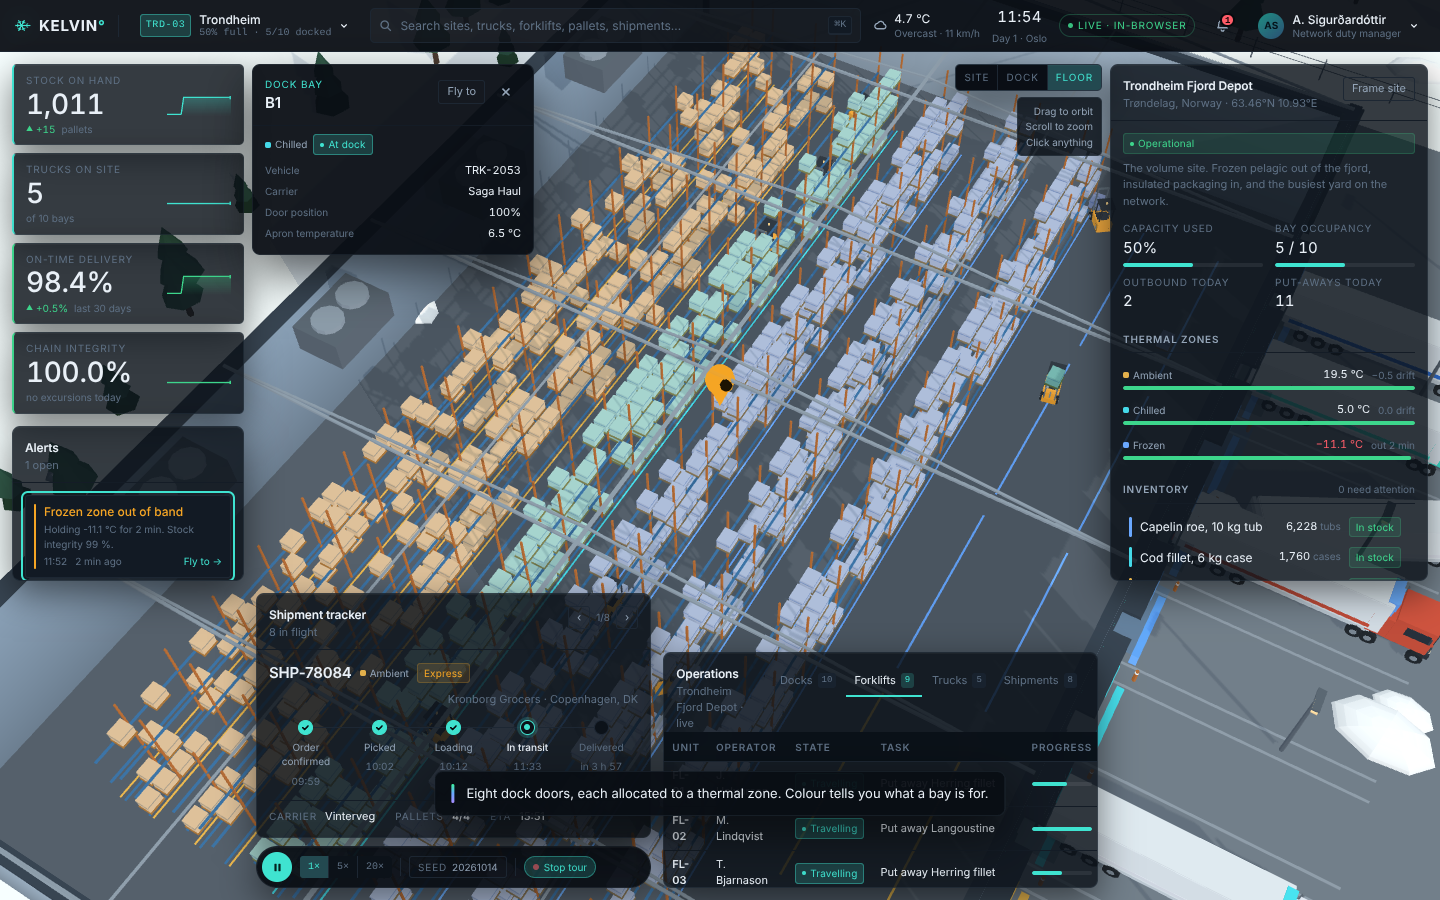
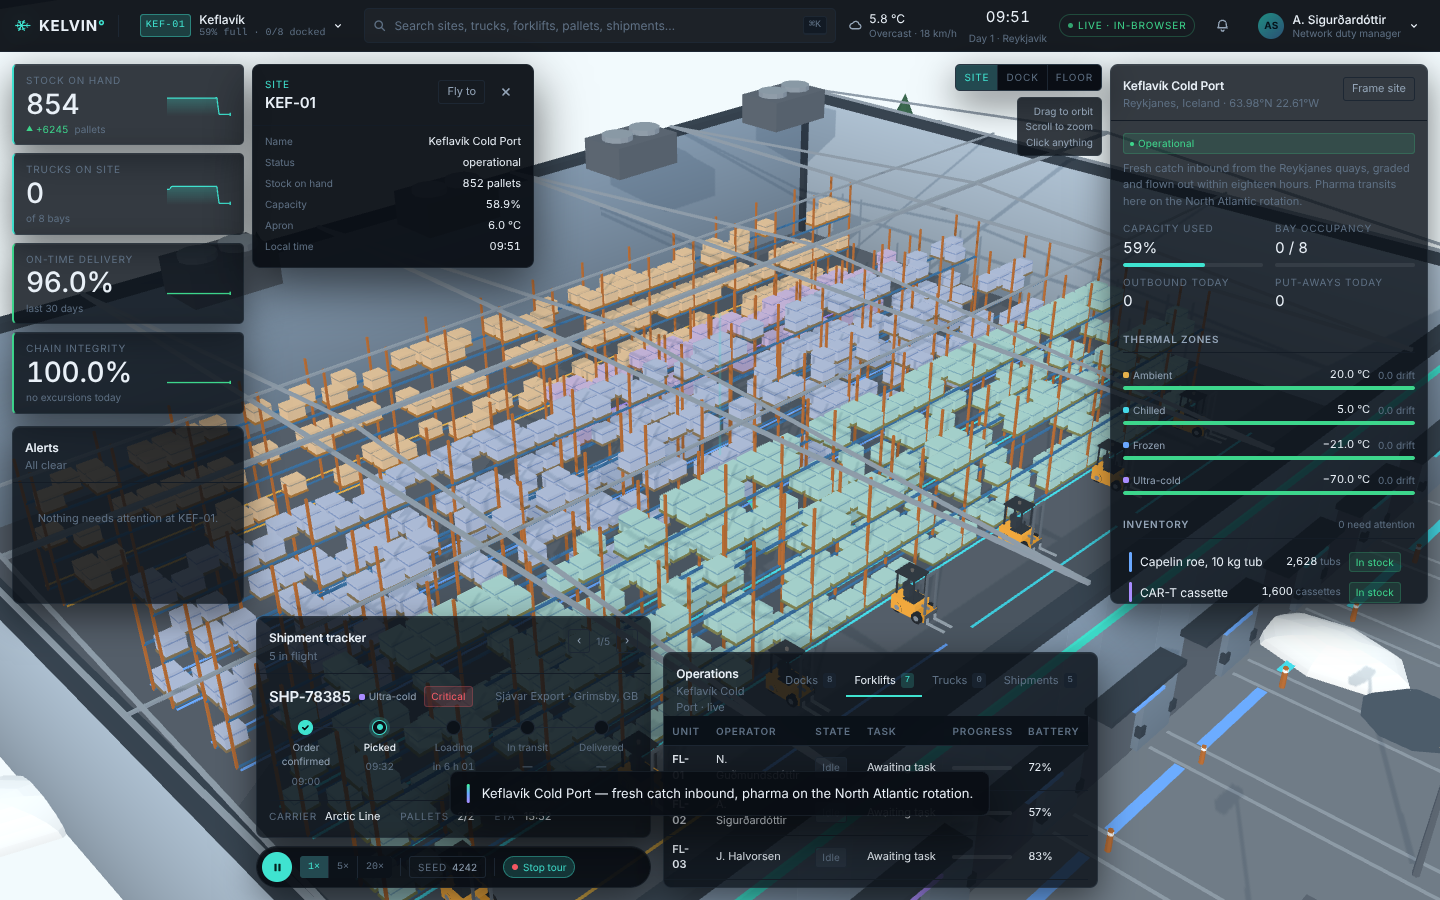
Fix the inspector stacking context that swallowed top-bar clicks
Driving the built app end to end, rather than running the test suite,
turned up a dead control: search for a site, then click the site
switcher, and nothing happens.

`.dashboard` carries a z-index and so creates a stacking context. The
switcher's popover sits at z-index 40, but that 40 is scoped inside the
dashboard, while the inspector was rendered as the dashboard's sibling
at z-index 8 — and so painted over the whole subtree and ate its
clicks. Searching for a site opens the inspector, which is why the very
next click on the switcher did nothing.

The inspector is now a child of the dashboard, so one stacking context
governs all the chrome, and its `top` no longer adds the safe-area
inset its parent's padding box already accounts for.

- e2e: assert the dropdown is genuinely on top via elementFromPoint,
  with the inspector open, rather than merely present in the DOM
- drive.mjs: rewritten as the thirteen-step acceptance run, reporting
  what the app says back and failing on any console error
- REPORT.md: record the defect and that two bugs now hid behind a green
  suite, because the tests were politer to the app than a person is
- pages.yml: optional manual GitHub Pages deploy, so the dashboard can
  live at a URL; manual because running it makes the app public

Claude-Session: https://claude.ai/code/session_01NEH2FUf4PZoDgGiTgoQ3VA

diff --git a/tests/e2e/app.spec.ts b/tests/e2e/app.spec.ts
@@ -153,6 +153,40 @@ test('the site switcher changes site', async ({ page }) => {
   await expect(page.locator('.panel-site')).toContainText('Gardermoen')
 })
 
+test('the top bar stays clickable with the inspector open', async ({ page }) => {
+  await boot(page)
+
+  // Open the inspector first. It is positioned over the left of the viewport and
+  // overlaps the site switcher's dropdown; if the two end up in different
+  // stacking contexts the inspector swallows the dropdown's clicks, which is
+  // exactly what happened when the inspector was a sibling of the dashboard
+  // rather than a child of it.
+  await page.getByRole('tab', { name: /Forklifts/ }).click()
+  await page.locator('.table tbody tr').first().click()
+  await expect(page.locator('.inspector')).toBeVisible()
+
+  await page.locator('.site-trigger').click()
+  await expect(page.locator('.popover-site')).toBeVisible()
+
+  const option = page.getByRole('menuitemradio', { name: /Gardermoen/ })
+  // Assert the dropdown is genuinely on top, not merely present in the DOM.
+  const box = await option.boundingBox()
+  expect(box).not.toBeNull()
+  const onTop = await page.evaluate(
+    ({ x, y }) => {
+      const el = document.elementFromPoint(x, y)
+      // Guard the null case explicitly: `el?.closest(...)` is undefined when
+      // there is no element there at all, and `undefined !== null` is true.
+      return el !== null && el.closest('.popover-site') !== null
+    },
+    { x: (box?.x ?? 0) + (box?.width ?? 0) / 2, y: (box?.y ?? 0) + (box?.height ?? 0) / 2 },
+  )
+  expect(onTop, 'something is painting over the site switcher dropdown').toBe(true)
+
+  await option.click()
+  await expect(page.locator('.site-code')).toContainText('OSL-02')
+})
+
 test('bracket keys cycle sites', async ({ page }) => {
   await boot(page)
   const start = await page.locator('.site-code').textContent()

diff --git a/src/styles/dashboard.css b/src/styles/dashboard.css
@@ -913,10 +913,16 @@
 
 /* ── Inspector ────────────────────────────────────────────────────────────── */
 
+/*
+ * A child of .dashboard, whose padding box already accounts for the top
+ * safe-area inset, so `top` must not add it a second time. The z-index sits
+ * below the top bar's popovers (40) on purpose: a dropdown you just opened
+ * belongs above a panel that was already sitting there.
+ */
 .inspector {
   position: absolute;
   left: calc(var(--left-w) + var(--s6));
-  top: calc(var(--topbar-h) + var(--s4) + env(safe-area-inset-top, 0px));
+  top: calc(var(--topbar-h) + var(--s4));
   width: 282px;
   z-index: 8;
   background: var(--glass-strong);

diff --git a/src/ui/App.tsx b/src/ui/App.tsx
@@ -94,9 +94,15 @@ export function App(): React.ReactElement {
         <div className="floating-camera">
           <CameraControls />
         </div>
+
+        {/* Inside the dashboard, not beside it. `.dashboard` carries a z-index
+            and therefore creates a stacking context, so an inspector rendered as
+            its sibling painted over the top bar's dropdowns whatever z-index
+            they carried — and swallowed their clicks. */}
+        <Inspector />
       </div>
 
-      <Inspector />
+      {/* Deliberately outside: these are meant to cover everything. */}
       {paletteOpen && <CommandPalette />}
       <ShortcutSheet />
       <Toasts />

diff --git a/REPORT.md b/REPORT.md
@@ -178,7 +178,7 @@ valid implementation. The UI degrades by leaving a control inert, not by breakin
 
 ## 5. Bugs worth recording
 
-Seven real defects. I'm listing them because how each was caught is the useful
+Eight real defects. I'm listing them because how each was caught is the useful
 part — none came from reading the code.
 
 **Shared module state broke determinism — twice.** Task-slot reservations and
@@ -236,6 +236,17 @@ test passed, because the e2e test waits for a result row before pressing Enter.
 I found it by scripting the app and driving it the way a person does: open,
 type, Enter, with no waiting in between. The fix was to stop resetting state
 and let the component unmount when closed, so a fresh mount is the reset.
+
+**The inspector painted over the top bar's dropdowns and ate their clicks.**
+`.dashboard` carries a `z-index`, which makes it a stacking context, so the
+site switcher's popover at `z-index: 40` was scoped *inside* it — while the
+inspector sat beside it at `z-index: 8` and beat the whole subtree. Searching
+for a site opens the inspector, so the very next click on the site switcher
+silently did nothing. Found by driving the app rather than testing it: a
+`document.elementFromPoint` on the menu option came back `.inspector-kind`.
+The inspector is now a child of the dashboard, so one stacking context governs
+all the chrome, and an e2e test asserts the dropdown is genuinely on top rather
+than merely present in the DOM.
 
 **The frame-delta clamp makes the engine run slow at very low frame rates.**
 Each frame advances the simulation by at most 250 ms of wall time, so a
@@ -358,12 +369,15 @@ physics, but a domain expert would find them naive.
 simulate a whole day. I trimmed the worst of it, but a proper build would
 separate fast property tests from a slow nightly soak.
 
-*My tests were politer to the app than a person is.* The palette bug above sat
-behind a green suite because the test waited for a result to render before
-pressing Enter — a reasonable thing for a test to do and not at all what a user
-does. Driving the app end to end as a last step found it in one run. I should
-have done that much earlier and more often, rather than treating a passing suite
-as the same thing as a working app.
+*My tests were politer to the app than a person is.* Two of the bugs above sat
+behind a green suite. The palette one survived because the test waited for a
+result to render before pressing Enter — reasonable for a test, not what a user
+does. The stacking one survived because the site-switcher test opened the
+switcher on a clean screen, where nothing was overlapping it; a person searches
+for a site first, which opens the inspector, and then the dropdown is dead.
+Both fell out of one scripted run that just used the app in order. I should have
+been doing that from the first hour, not the last, and I should stop treating a
+passing suite as the same thing as a working app.
 
 *I did not do a formal accessibility audit.* Keyboard access, focus management,
 reduced motion and live regions are all implemented and spot-checked, but I ran

diff --git a/scripts/README.md b/scripts/README.md
@@ -29,7 +29,7 @@ drives it with the bundled Chromium under SwiftShader.
 
 | Script | What it does |
 |---|---|
-| `drive.mjs` | Launches the app and drives it as a person would: search, switch camera view, open an entity, force an incident, click the alert, start the demo tour. The command-palette race was found here and by nothing else. |
+| `drive.mjs` | The acceptance run: thirteen steps through every control a person would reach for — global search, site switcher, camera presets, ops tabs, row to inspector, pause, resume, forced incident, alert fly-to, notifications, shortcut sheet, seeded reset, demo tour — reporting what the app said back and failing on any console error. Two defects were found here and by nothing else: the command-palette race and the inspector stacking context. |
 | `check-remote.mjs` | Proves the env-var switch: a `remote` build in a browser, talking to the Node server over a real WebSocket. Checks the connection pip, that the seed reported is the *server's* rather than the client default, that ticks advance, and that a command round-trips. |
 | `check-artifact.mjs` | Boots the single-file bundle inside a replica of the platform's publish wrapper, at desktop and phone widths. Checks the title, that it boots, that there is no horizontal scroll and that the body paints its own background. |
 | `shoot.mjs` | Screenshots at laptop and tablet sizes, reporting console errors and a frame-rate sample. |

diff --git a/README.md b/README.md
@@ -26,6 +26,18 @@ services, no API keys, no downloaded assets.
 
 > Requires Node 20 or newer.
 
+### Or host it
+
+`.github/workflows/pages.yml` publishes the production build to GitHub Pages so
+it can be opened from anywhere. It only runs when you ask it to, because running
+it makes the app public:
+
+1. **Settings → Pages → Build and deployment → Source: GitHub Actions**
+2. **Actions → Publish dashboard → Run workflow**
+
+The build uses a relative base path, so a project-site subpath needs no extra
+configuration.
+
 ---
 
 ## The two modes
